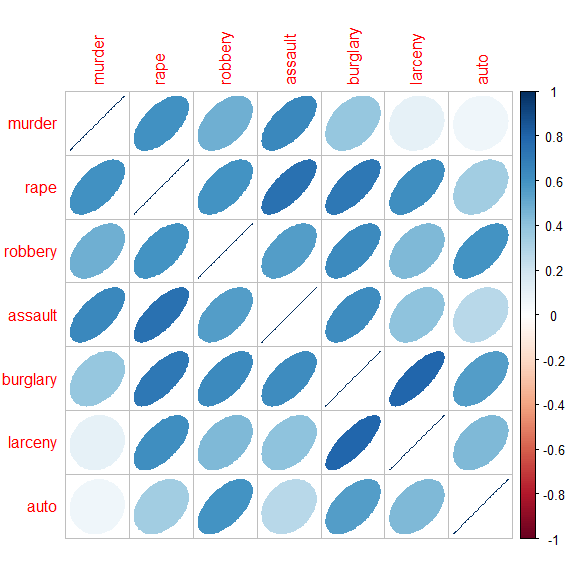
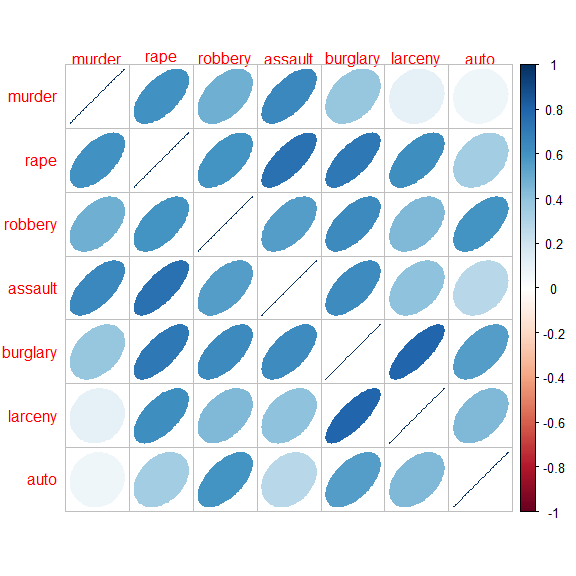
update README

diff --git a/README.md b/README.md
@@ -14,17 +14,22 @@ package](https://CRAN.R-project.org/package=ggbiplot) was forked from
 since 2015.
 
 The goal is to complete that development and publish a new version on
-CRAN. There is also an [experimental
+CRAN with Vince Yu as the principal author. There is also an
+[experimental
 branch](https://github.com/friendly/ggbiplot/tree/experimental) which
 attempts to simplify the code, but this has some unresolved problems.
 
 # ggbiplot <img src="man/figures/logo.png" height="200" style="float:right; height:200px;"/>
 
-An implementation of the biplot using `ggplot2`. The package provides
-two functions: `ggscreeplot()` and `ggbiplot()`. `ggbiplot` aims to be a
-drop-in replacement for the built-in R function `biplot.princomp()` with
-extended functionality for labeling groups, drawing a correlation
-circle, and adding Normal probability ellipsoids.
+This package provides a `ggplot2` implementation of the biplot, a
+simultaneous plot of scores for observations and vectors for variables
+for principal component-like analyses.  
+The package provides two main functions: `ggscreeplot()` and
+`ggbiplot()`.
+
+`ggbiplot` aims to be a drop-in replacement for the built-in R function
+`biplot.princomp()` with extended functionality for labeling groups,
+drawing a correlation circle, and adding data ellipsoids.
 
 ## Installation
 
@@ -63,7 +68,7 @@ data(crime)
 crime |> 
   dplyr::select(where(is.numeric)) |> 
   cor() |> 
-  corrplot(method = "ellipse")
+  corrplot(method = "ellipse", tl.srt = 0)
 ```
 
 ![](man/figures/README-crime-corrplot-1.png)<!-- -->
@@ -197,7 +202,7 @@ ggbiplot(wine.pca,
 
 The three cultivars are arranged along the first dimension, in the order
 barolo \< grignolino \< barbera. These are distinguished largely by a
-conrtast between (`Phenols`, `Flav`) vs. (`NonFlavPhenols`, `AlcAsh`).
+contrast between (`Phenols`, `Flav`) vs. (`NonFlavPhenols`, `AlcAsh`).
 The second dimension is represented by the cluster of variables `Mg`,
 `Alcohol`, `Ash`, `Color`, which distinguishes grignolino from the other
 two.
